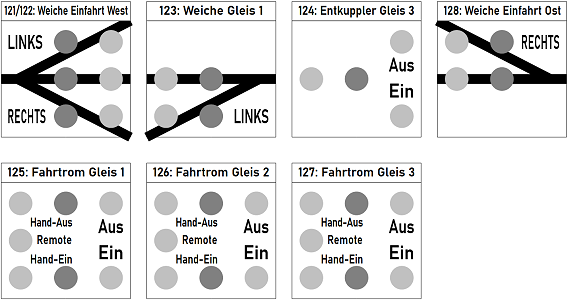
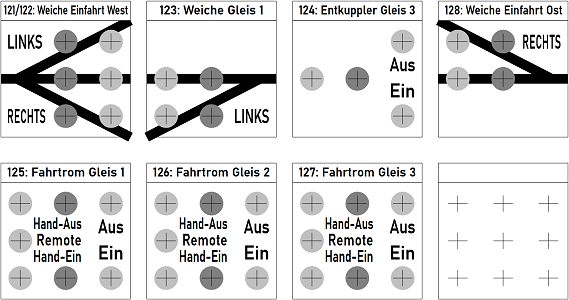
Update Module M12

diff --git a/use/module12/LIESMICH.md b/use/module12/LIESMICH.md
@@ -197,7 +197,7 @@ Der Rahmenteil „Nord“ enthält lediglich dreimal zwei Bohrungen mit 2 mm Dur
 ![Modul_Nord_980mm](./images/300_Nord_980mm.png "Modul_Nord_980mm")   
 _Bild 6: Seitenteil Nord Ra2_   
 
-## 2.4 Seitenteil Ra4 (Süd)
+## 2.4 Rahmenteil Ra4 (Süd)
 Der Rahmenteil Süd ist am aufwändigsten zu fertigen, da er das Display, einen Taster und die Bohrungen für alle Steuerblöcke und für alle Querverstrebungen enthält. Das folgende Bild gibt einen Überblick über die erforderlichen Bohrungen.   
 
 ![Modul_Süd_980mm](./images/300_Sued_980mm.png "Modul_Süd_980mm")   
@@ -213,7 +213,7 @@ Bei Verwendung eines 3D-gedruckten Rahmens benötigt man eine rechteckförmige A
 _Bild 9: Maße für den Rahmen der OLED-Anzeige mit Taster_   
 
 __Steuerblöcke__   
-Je nach Art des Steuerelementes werden unterschiedliche Bohrungen benötigt. So zeigt das Schaltbild der Dreiwegweiche W3 nach rechts (6 Bohrungen), das der ersten Zweiwegweiche W2 nach links unten (4 Bohrungen) und das des Entkupplers 1OUT nach rechts (4 Bohrungen). Es folgen die drei Schaltbilder für die Fahrstromabschaltung 2IO (7 Bohrungen) und das Schaltbild der zweiten Zweiwegweiche W2 nach rechts oben (4 Bohrungen).   
+Je nach Art des Steuerelementes werden unterschiedliche Bohrungen benötigt. So zeigt das Symbol der Dreiwegweiche W3 nach rechts (6 Bohrungen), das der ersten Zweiwegweiche W2 nach links unten (4 Bohrungen) und das des Entkupplers 1OUT nach rechts (4 Bohrungen). Es folgen die drei Schaltsymbole für die Fahrstromabschaltung 2IO (7 Bohrungen) und das Schaltbild der zweiten Zweiwegweiche W2 nach rechts oben (4 Bohrungen).   
 Die genaue Lage aller Bohrungen für einen Schaltblock zeigt das folgende Bild, wobei je nach Schaltblock-Typ nur die entsprechenden Bohrungen benötigt werden (!):   
 
 ![Bohrposition LEDs und Taster](./images/300_drill_position_LED_button.png "Bohrposition LEDs und Taster")   
@@ -221,34 +221,42 @@ _Bild 10: Maße für die LED- und Taster-Bohrungen_
 
 Der Bohrdurchmesser für die LED-Fassungen beträgt 5,6 mm, der für die Taster ca. 7 mm.   
 
-__Beschriftung__   
-Die Beschriftung der Modul 12-Steuerelemente kann zB folgendermaßen aussehen:   
+Das einzelne Anzeichnen der Positionen der Bohrungen benötigt viel Zeit und genaues Arbeiten. Daher macht es Sinn, für die Schaltblöcke Abdeckungen (Beschriftungen) zu entwerfen, diese auf Etikettenpapier auszudrucken und auf das Holz aufzukleben (Abstand zum unteren Rand 8 mm). Damit ist das Bohren wesentlich einfacher. Die Beschriftungen können entweder beibehalten oder entfernt werden, wenn man sie nicht möchte. Falls die Beschriftungen zu stark durch das Bohren beschädigt wurden, kann man sie auch durch neue ersetzen....   
+
+Das folgende Bild zeigt die 40 x 42 mm großen Abdeckungen.   
+ 
 ![Beschriftung Bedienungselemente](./images/300_M12_cover.png "Beschriftung Bedienungselemente")   
 _Bild 11: Beschriftung der Bedienungselemente für Modul 12_   
 
-Diese Abdeckungen (Cover) sind nach dem Bohren aller LED- und Taster-Bohrungen auszudrucken, auszuschneiden und aufzukleben.   
-
 __LED-Fassungen__   
-Anschließend sind die LED-Fassungen einzupressen.   
+Nach dem Bohren sind die Bohrungen zu reinigen und die LED-Fassungen einzupressen.   
 
 __Halterungen für Steuerblöcke__   
-Schließlich kann man die Halterungen der für die Steuerblöcke montieren und testen, ob die Bohrungen für die Steuerblöcke passen. Der Abstand der Blöcke von der Unterseite des Rahmens beträgt 5,5 mm.   
+Als Nächstes kann man die Halterungen für die Steuerblöcke mit 2,6 x 8 mm Schrauben anschrauben. Der Abstand der Blöcke von der Unterseite des Rahmens sollte 5,5 mm betragen, allerdings ist die Lage der Halterungen meist durch die LED-Fassungen bereits vorgegeben...   
 
 Die Position der Schrauben für die Steuerblock-Halterungen auf der Innenseite des Rahmens ist folgendermaßen festgelegt:   
 ![Schraubposition für Blockhalter](./images/300_blockholder_mountingholes.png "Schraubposition für Blockhalter")   
-_Bild 11: Position der Schrauben für die Steuerblock-Halterungen_   
+_Bild 12: Position der Schrauben für die Steuerblock-Halterungen_   
 
+Den fertigen Rahmenteil Süd zeigen die folgenden Bilder   
+![Rahmenteil Süd Forderseite](./images/300_Frame_South_front.png "Rahmenteil Süd Forderseite")   
+_Bild 13: Rahmenteil Süd Forderseite_   
+
+![Rahmenteil Süd Rückseite](./images/300_Frame_South_back.png "Rahmenteil Süd Rückseite")   
+_Bild 14: Rahmenteil Süd Rückseite_   
 
 
 ## 2.5 Querverstrebung Ri1 bis Ri3
 Die Querverstrebungen enthalten verschiedene Durchbrüche für Kabel und zwei Bohrungen für die Halterung der 25-poligen Sub-D-Stecker.   
 
 ![Verstrebung](./images/300_Verstrebung_230mm.png "Verstrebung")   
-_Bild 12: Querverstrebungen Ri1 bis Ri3_
+_Bild 15: Querverstrebungen Ri1 bis Ri3_
 
 ## 2.6 Zusammenbau des Rahmens
 Nachdem alle Teile des Rahmens bearbeitet wurden, kann dieser zusammengeschraubt werden.   
 
+![](./images/300_M12_frame_bottom_view.png)   
+_Bild 16: Zusammengeschraubter Rahmen, Ansicht von unten_   
 
 [Zum Seitenanfang](#up)   
 <a name="x30"></a>   
